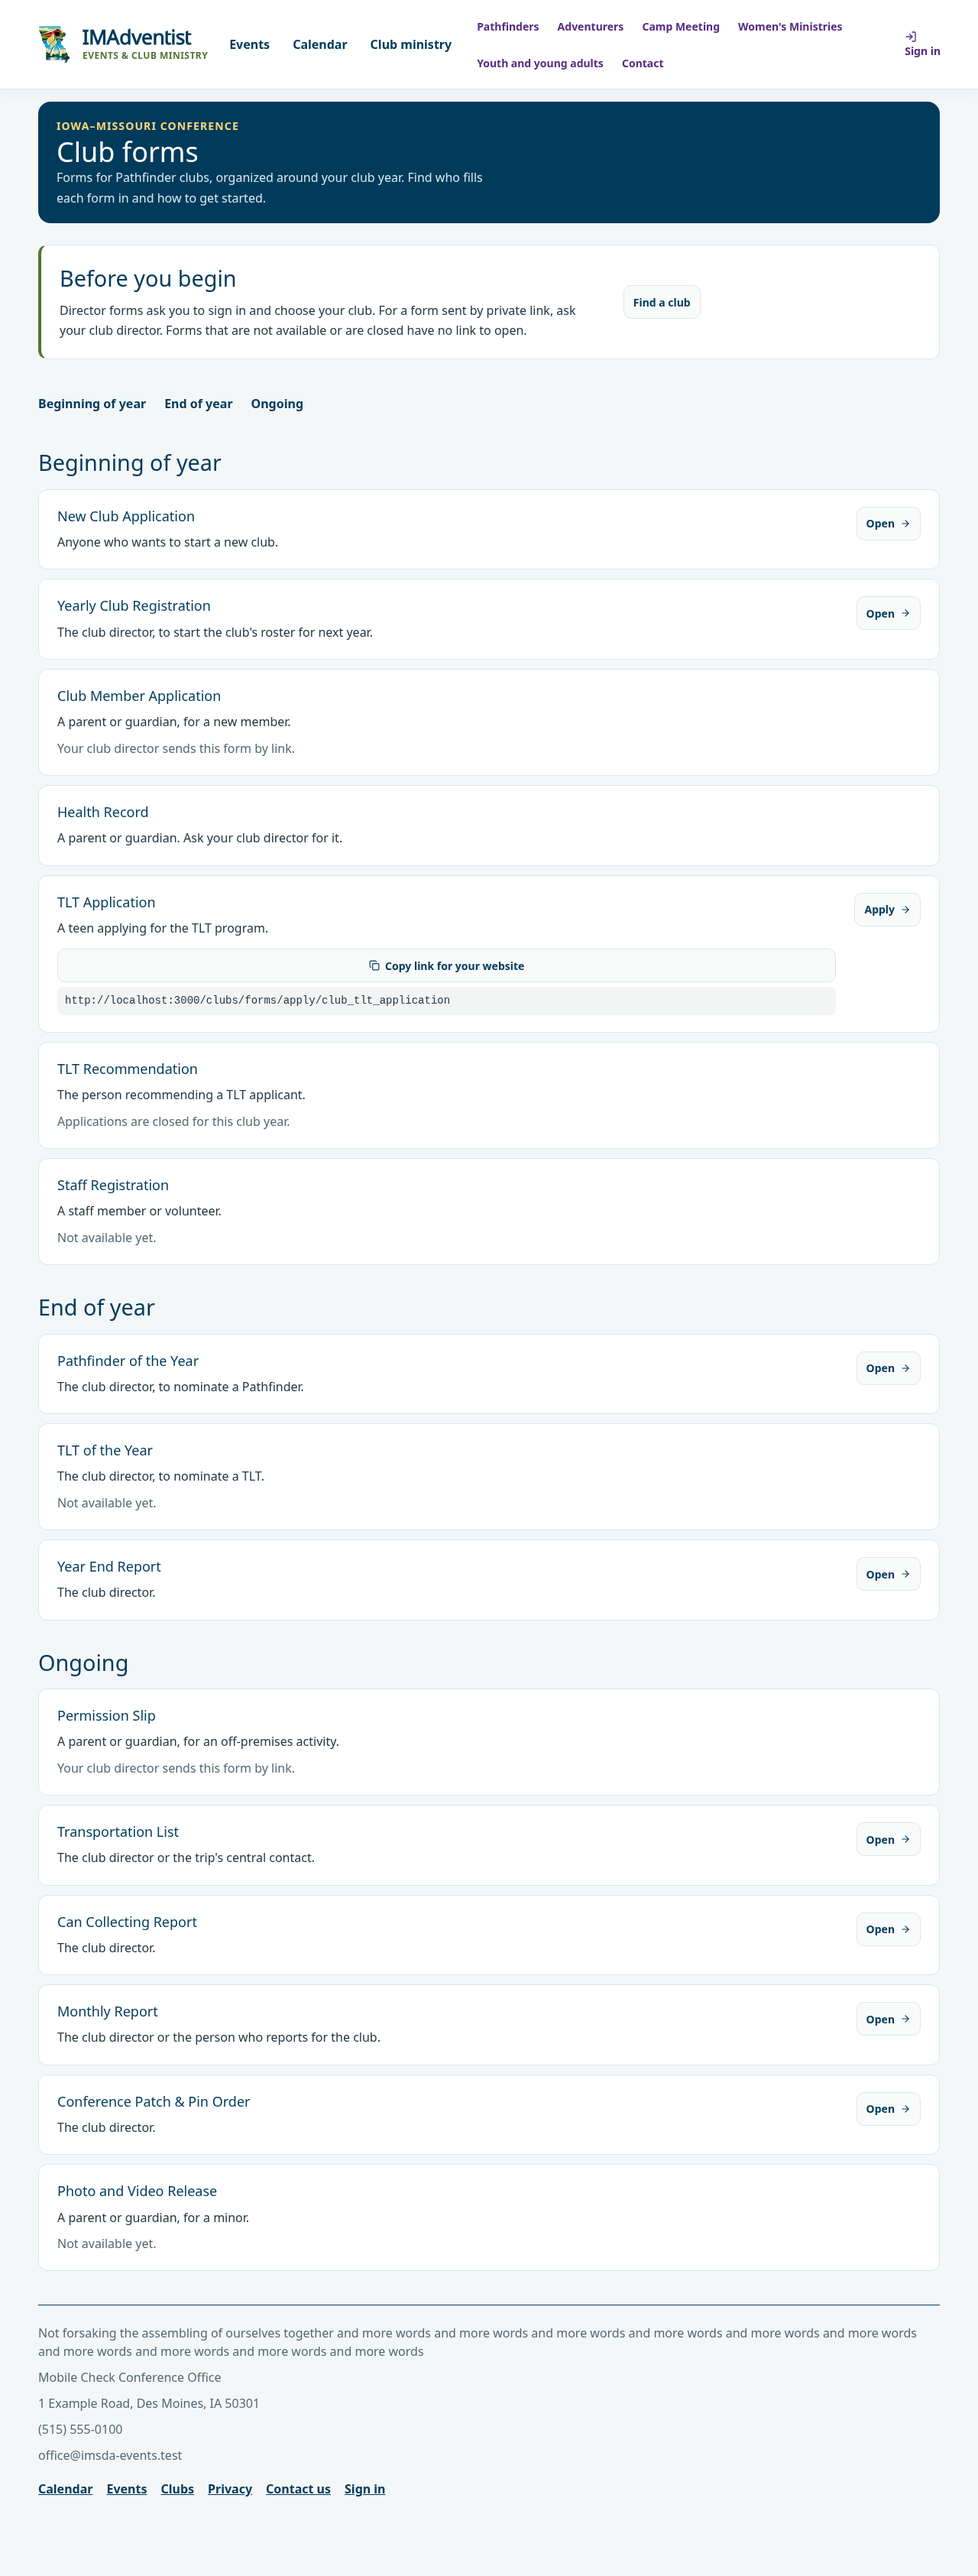
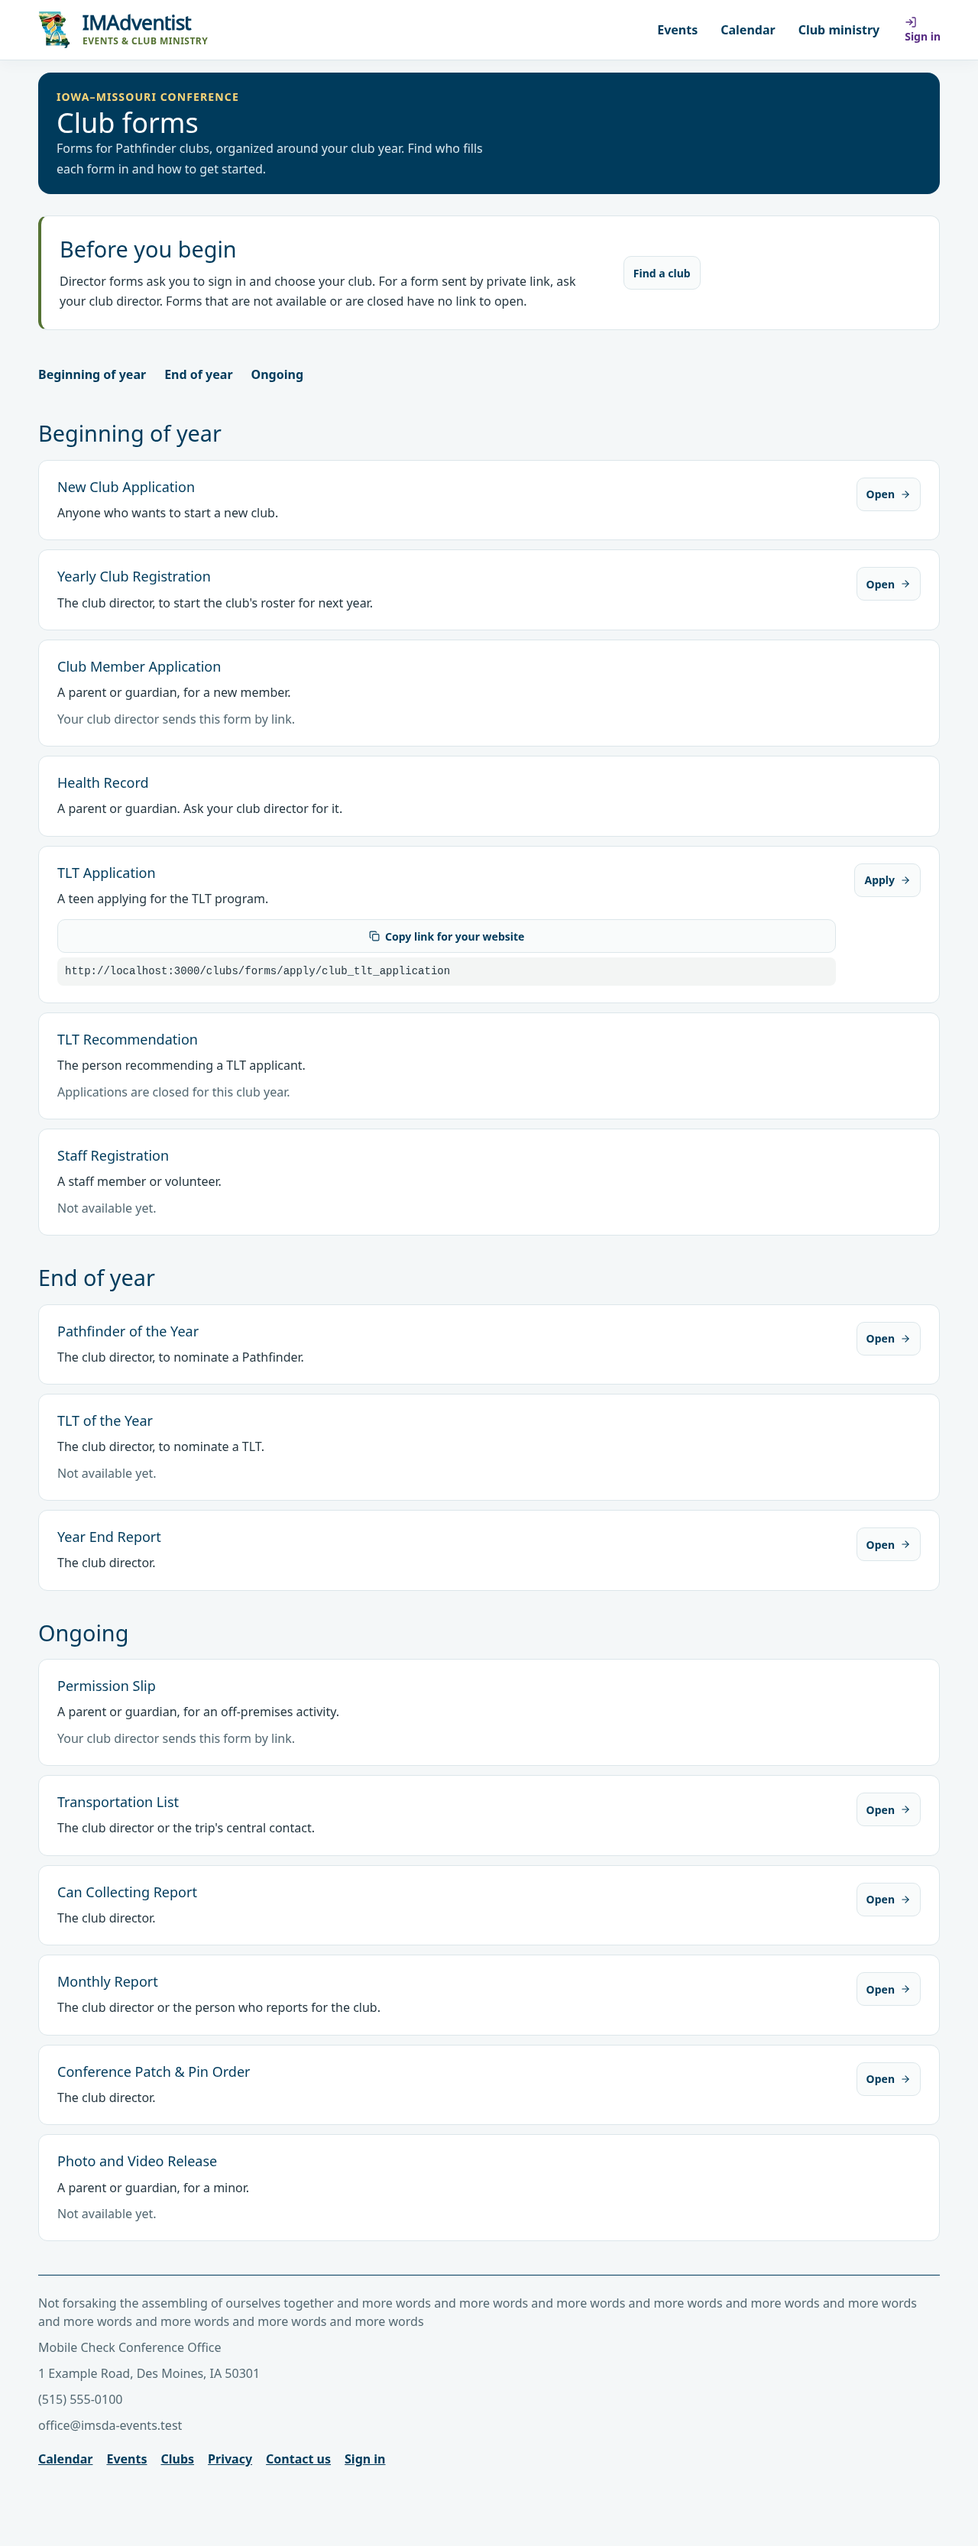
Keep club headers on the agreed primary menu

diff --git a/tests/public-club-forms-1221.test.ts b/tests/public-club-forms-1221.test.ts
@@ -5,6 +5,7 @@ import { beforeEach, describe, expect, it, vi } from "vitest";
  * #1221: the public Club forms page and the sign-in-aware club chooser behind its director links. Synthetic data only.
  */
 const mocks = vi.hoisted(() => ({
+  headerLinks: vi.fn(),
   listEnabled: vi.fn(),
   listFillModes: vi.fn(),
   listClosed: vi.fn(),
@@ -16,12 +17,12 @@ const mocks = vi.hoisted(() => ({
 }));
 
 vi.mock("server-only", () => ({}));
-vi.mock("@/modules/site-content/hub-content", async () => ({ getPublishedHubContent: async () => (await import("@/modules/site-content/hub-content-domain")).defaultHubContent() }));
+vi.mock("@/modules/site-content/hub-content", async () => ({ getPublishedHubContent: async () => ({ ...(await import("@/modules/site-content/hub-content-domain")).defaultHubContent(), navLinks: [{ label: "Unexpected category", href: "/unexpected-category" }] }) }));
 vi.mock("next/navigation", () => ({
   redirect: (to: string) => { throw new Error(`REDIRECT ${to}`); },
   notFound: mocks.notFound,
 }));
-vi.mock("@/components/public-header-session-links", () => ({ PublicHeaderSessionLinks: () => null }));
+vi.mock("@/components/public-header-session-links", () => ({ PublicHeaderSessionLinks: ({ navLinks }: { navLinks?: unknown }) => { mocks.headerLinks(navLinks); return null; } }));
 vi.mock("@/modules/club-forms/public-index", () => ({ listEnabledPublicClubFormKeys: mocks.listEnabled, listPublicClubFormFillModes: mocks.listFillModes, listPublicClubFormClosedKeys: mocks.listClosed }));
 vi.mock("@/modules/attendee-accounts/current-attendee", () => ({ getCurrentAttendee: mocks.getCurrentAttendee }));
 vi.mock("@/modules/attendee-accounts/portal-second-step", () => ({ attendeeSecondStepPending: mocks.attendeeSecondStepPending }));
@@ -126,6 +127,7 @@ describe("the Club forms page (#1221)", () => {
     expect(html).toContain(PRIVATE_LINK_LINE);
     expect(html).not.toContain(NOT_AVAILABLE_LINE);
     expect(html).toContain("<h1>Club forms</h1>");
+    expect(mocks.headerLinks).toHaveBeenCalledExactlyOnceWith([]);
   });
 
   it("shows Not available yet and drops the link when a form is off", async () => {

diff --git a/tests/public-clubs-page.test.ts b/tests/public-clubs-page.test.ts
@@ -2,13 +2,14 @@ import { renderToStaticMarkup } from "react-dom/server";
 import { beforeEach, describe, expect, it, vi } from "vitest";
 
 const mocks = vi.hoisted(() => ({
+  headerLinks: vi.fn(),
   listPublicClubs: vi.fn(),
 }));
 
 vi.mock("server-only", () => ({}));
-vi.mock("@/modules/site-content/hub-content", async () => ({ getPublishedHubContent: async () => (await import("@/modules/site-content/hub-content-domain")).defaultHubContent() }));
+vi.mock("@/modules/site-content/hub-content", async () => ({ getPublishedHubContent: async () => ({ ...(await import("@/modules/site-content/hub-content-domain")).defaultHubContent(), navLinks: [{ label: "Unexpected category", href: "/unexpected-category" }] }) }));
 // The header's session links read cookies and the database (#1009); they have their own tests.
-vi.mock("@/components/public-header-session-links", () => ({ PublicHeaderSessionLinks: () => null }));
+vi.mock("@/components/public-header-session-links", () => ({ PublicHeaderSessionLinks: ({ navLinks }: { navLinks?: unknown }) => { mocks.headerLinks(navLinks); return null; } }));
 vi.mock("@/modules/organizations/public-club-directory", () => ({
   listPublicClubs: mocks.listPublicClubs,
 }));
@@ -31,6 +32,7 @@ describe("public club-ministry front door (#1534)", () => {
     expect(html).toContain("No clubs are listed publicly yet");
     expect(html).toContain("Only clubs that choose a public listing appear here.");
     expect(mocks.listPublicClubs).toHaveBeenCalledExactlyOnceWith();
+    expect(mocks.headerLinks).toHaveBeenCalledExactlyOnceWith([]);
   });
   it("renders shared searches before hydration and provides a native GET search", async () => {
     const base = { churchName: "Synthetic Church", town: "Example", state: "IA", zip: "50309", meetingSchedule: "", latitude: null, longitude: null };

diff --git a/app/(public)/clubs/public-clubs.module.css b/app/(public)/clubs/public-clubs.module.css
@@ -45,15 +45,8 @@
 .nextSteps :global(.start-a-club-icon) { display: none; }
 .nextSteps :global(.start-a-club-body) h2 { font-size: clamp(1.4rem, 2.3vw, 1.8rem); }
 .nextSteps :global(.start-a-club-body) p { margin: 16px 0; font-size: 1rem; }
-/* Published site links may fill more than a row; keep the session action reachable. */
+/* Keep the primary menu and account action within the header at high zoom. */
 .page :global(.public-registration-header-inner) { flex-wrap: wrap; }
-.page :global(.public-header-links) { flex: 1 1 280px; min-width: 0; max-width: 100%; }
-.page :global(.public-header-nav) { flex: 1 1 200px; min-width: 0; }
-.page :global(.public-header-nav) ul { flex-wrap: wrap; }
-.page :global(.public-header-nav) :global(.text-button) { white-space: normal; overflow-wrap: anywhere; }
-@media (max-width: 760px) {
-  .page :global(.public-header-links) { flex-basis: 100%; justify-content: flex-start; }
-}
 /* Keep the shared wordmark within the available header width at high zoom. */
 .page :global(.public-registration-brand) { min-width: 0; max-width: 100%; }
 .page :global(.public-registration-brand) > span { min-width: 0; }

diff --git a/app/(public)/clubs/page.tsx b/app/(public)/clubs/page.tsx
@@ -40,7 +40,7 @@ export default async function PublicClubsPage({ searchParams }: { searchParams?:
           <nav aria-label="Explore" className={homeStyles.primaryNav}>
             <Link href="/events">Events</Link><Link href="/calendar">Calendar</Link><a aria-current="page" href="/clubs">Club ministry</a>
           </nav>
-          <div className="public-header-links"><PublicHeaderSessionLinks navLinks={hubContent.navLinks} /></div>
+          <div className="public-header-links"><PublicHeaderSessionLinks navLinks={[]} /></div>
         </div>
       </header>
       <section className={`public-registration-hero calendar-hero public-home-banner ${styles.hero}`}>

diff --git a/app/(public)/clubs/forms/page.tsx b/app/(public)/clubs/forms/page.tsx
@@ -43,7 +43,7 @@ export default async function PublicClubFormsPage() {
           <nav aria-label="Explore" className={homeStyles.primaryNav}>
             <Link href="/events">Events</Link><Link href="/calendar">Calendar</Link><a aria-current="location" href="/clubs">Club ministry</a>
           </nav>
-          <div className="public-header-links"><PublicHeaderSessionLinks navLinks={hubContent.navLinks} /></div>
+          <div className="public-header-links"><PublicHeaderSessionLinks navLinks={[]} /></div>
         </div>
       </header>
       <section className={`public-registration-hero calendar-hero public-home-banner ${styles.hero}`}>
